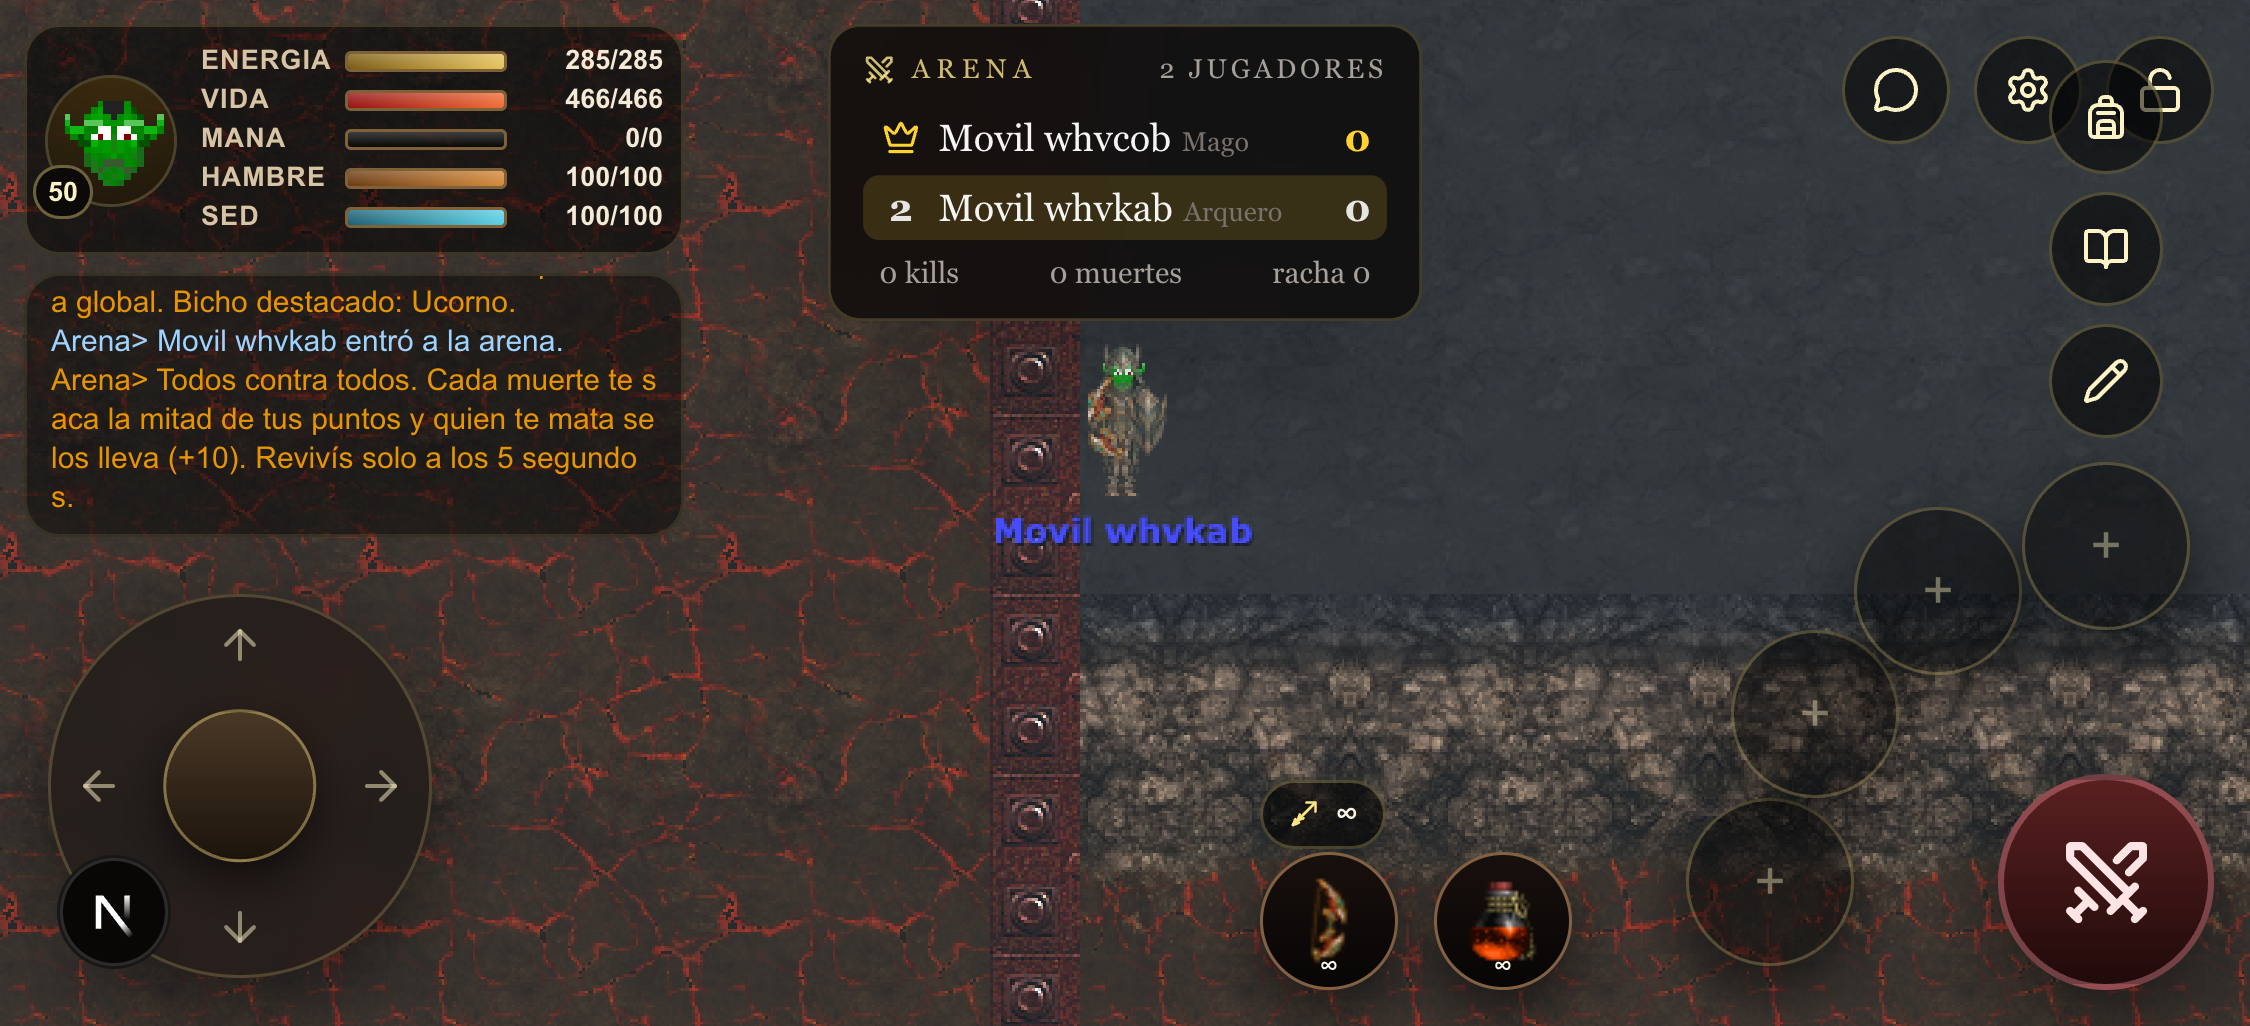
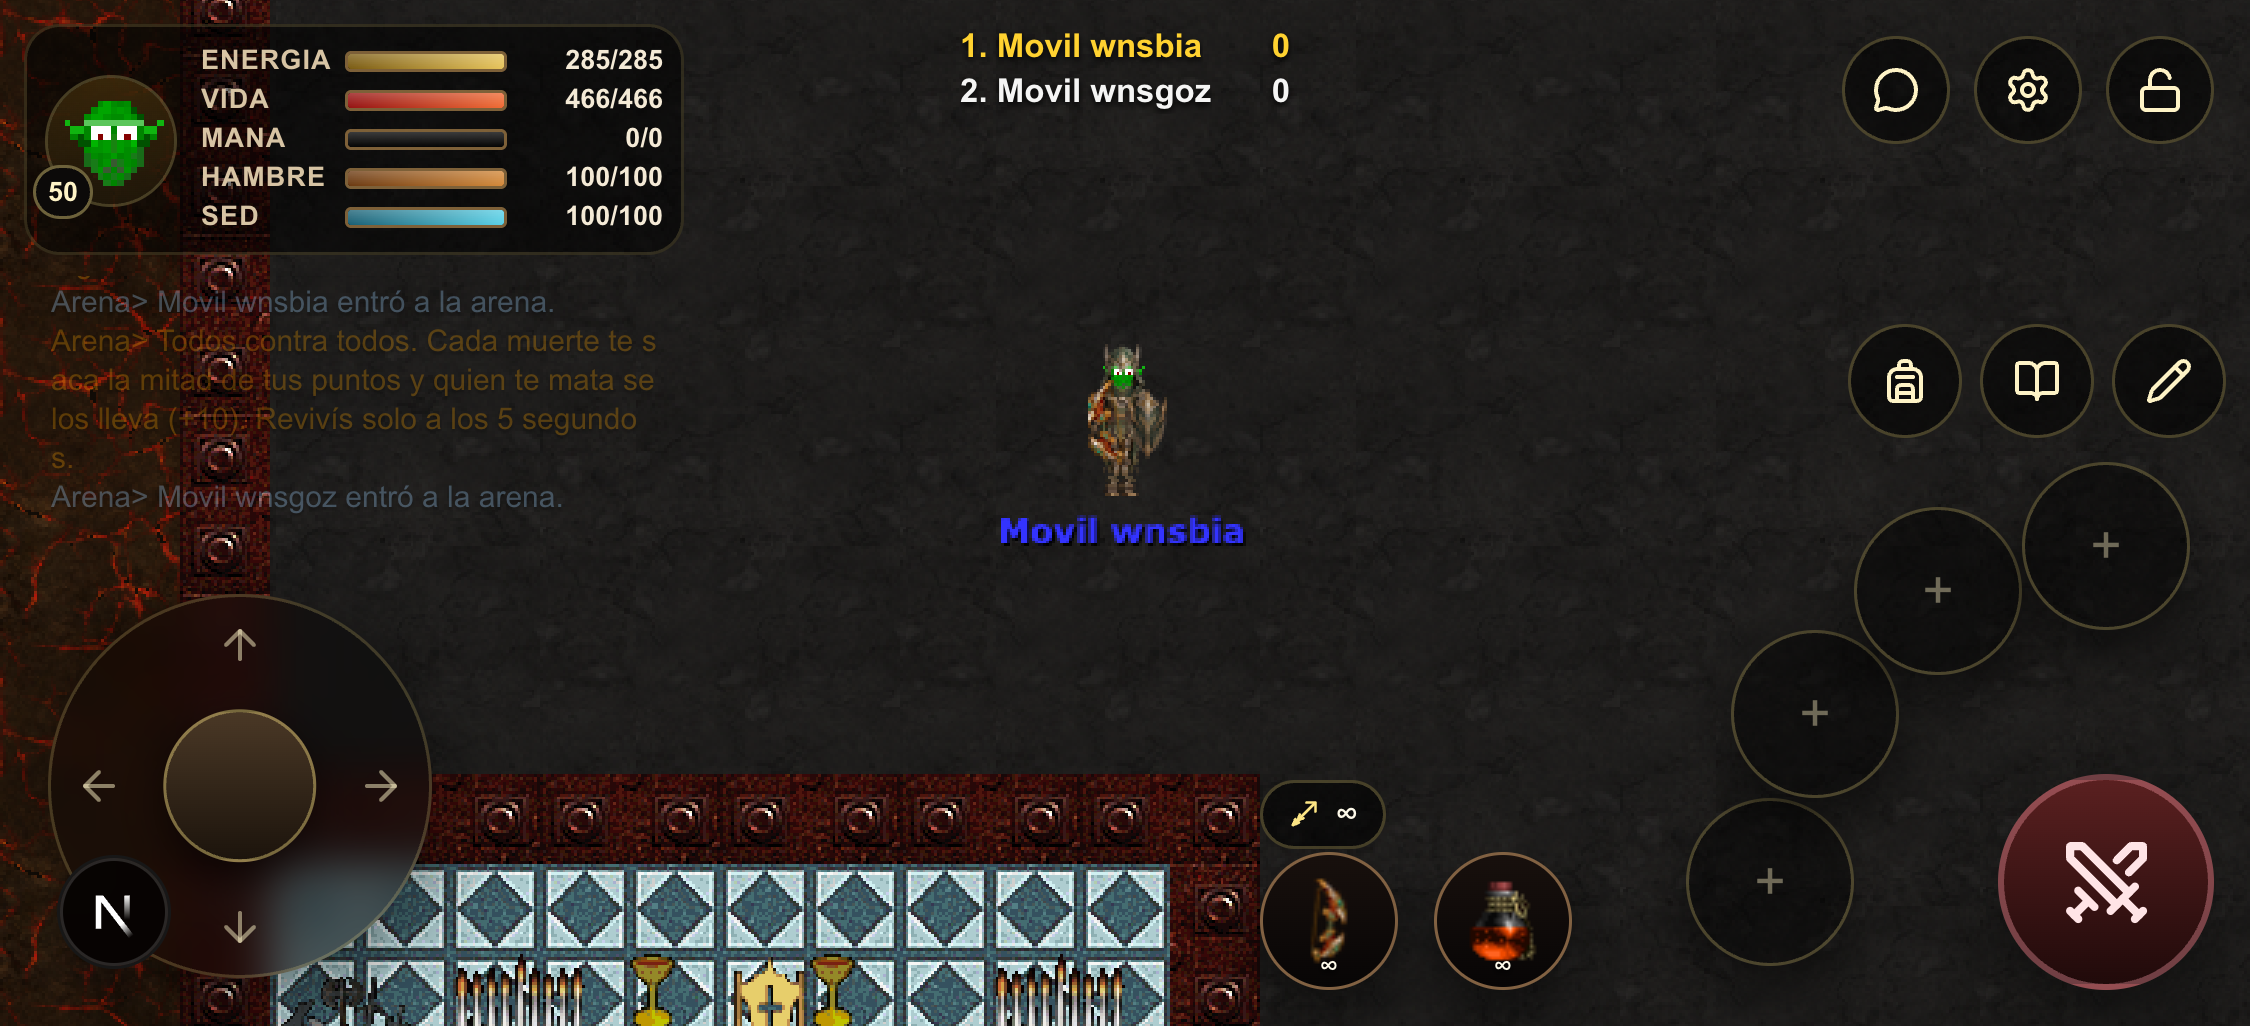
Mobile: botones sin pisarse, chat casi transparente y Top 3 de la Arena en texto chico
- Mochila, lista de hechizos y editar pasan de columna a fila encima del arco: en
  pantallas de unos 340 de alto (Safari con barras) la columna pisaba ajustes y candado.
- El log del chat en mobile queda al 30 % y deja tocar lo de abajo; se ve entero y se
  puede scrollear solo con el chat abierto para escribir.
- El Top 3 de la Arena es una lista de texto chica (puesto, nombre y puntos), sin caja,
  encabezado, corona, clase ni kills; tu puesto abajo si no estás en el Top 3.

diff --git a/frontend/components/game/ArenaScoreboard.tsx b/frontend/components/game/ArenaScoreboard.tsx
@@ -1,9 +1,8 @@
 "use client";
 
 import { useEffect, useState } from "react";
-import { Crown, Skull, Swords } from "lucide-react";
+import { Skull } from "lucide-react";
 import { formatNumber } from "@/lib/number-format";
-import { getArenaClassOption } from "@/lib/arenas";
 import type { ArenaStatePayload } from "@/lib/aowProtocol";
 
 type ArenaScoreboardProps = {
@@ -14,12 +13,10 @@ type ArenaScoreboardProps = {
     isMobile?: boolean;
 };
 
-// Alto del cartel, para correr los avisos de arriba a la derecha.
-export const ARENA_SCOREBOARD_HEIGHT = 176;
+// Alto de la lista (Top 3 y tu puesto), para correr los avisos de arriba a la derecha.
+export const ARENA_SCOREBOARD_HEIGHT = 88;
 
-const PODIUM_COLORS = ["text-amber-300", "text-stone-200", "text-orange-300"];
-
-// Top 3 de la partida, como en los .io: arriba a la derecha y siempre a la vista.
+// Top 3 de la partida, como en los .io: una lista chica de texto, sin caja, para tapar lo menos posible.
 export function ArenaScoreboard({
     state,
     dead,
@@ -30,88 +27,38 @@ export function ArenaScoreboard({
 
     return (
         <>
-            <div
-                className={`pointer-events-none absolute z-30 w-[220px] select-none ${
+            <ol
+                aria-label="Top de la arena"
+                className={`pointer-events-none z-30 min-w-[110px] select-none font-semibold text-stone-100 [text-shadow:0_1px_2px_rgba(0,0,0,0.95)] ${
                     isMobile
-                        ? "fixed left-1/2 top-2 z-40 origin-top -translate-x-1/2 scale-90"
-                        : "right-3 top-3"
+                        ? "fixed left-1/2 top-2 z-40 -translate-x-1/2 text-[11px] leading-[15px]"
+                        : "absolute right-3 top-3 text-xs leading-[18px]"
                 }`}
             >
-                <div className="rounded-xl border border-amber-200/20 bg-stone-950/82 px-3 py-2 font-serif shadow-2xl backdrop-blur-md">
-                    <div className="flex items-center justify-between text-[10px] uppercase tracking-[0.24em] text-amber-200/80">
-                        <span className="flex items-center gap-1.5">
-                            <Swords className="h-3 w-3" />
-                            Arena
+                {state.top.map((entry, index) => (
+                    <li
+                        key={`${entry.nombre}-${index}`}
+                        className={`flex gap-2 ${
+                            mine?.puesto === index + 1 ? "text-amber-300" : ""
+                        }`}
+                    >
+                        <span className="max-w-[140px] truncate">
+                            {index + 1}. {entry.nombre}
                         </span>
-                        <span className="tracking-[0.14em] text-stone-400">
-                            {state.jugadores === 1
-                                ? "1 jugador"
-                                : `${formatNumber(state.jugadores)} jugadores`}
+                        <span className="ml-auto tabular-nums">
+                            {formatNumber(entry.puntos)}
                         </span>
-                    </div>
-
-                    <ol className="mt-1.5 space-y-0.5">
-                        {state.top.map((entry, index) => {
-                            const isMe = mine?.puesto === index + 1;
-                            return (
-                                <li
-                                    key={`${entry.nombre}-${index}`}
-                                    className={`flex items-center gap-1.5 rounded-md px-1.5 py-0.5 text-sm ${
-                                        isMe ? "bg-amber-300/15" : ""
-                                    }`}
-                                >
-                                    <span
-                                        className={`w-4 text-center font-black tabular-nums ${PODIUM_COLORS[index]}`}
-                                    >
-                                        {index === 0 ? (
-                                            <Crown className="mx-auto h-3.5 w-3.5" />
-                                        ) : (
-                                            index + 1
-                                        )}
-                                    </span>
-                                    <span className="min-w-0 flex-1 truncate text-stone-100">
-                                        {entry.nombre}
-                                        <span className="ml-1 text-[10px] text-stone-500">
-                                            {getArenaClassOption(entry.idClase)
-                                                ?.nombre ?? ""}
-                                        </span>
-                                    </span>
-                                    <span
-                                        className={`font-bold tabular-nums ${PODIUM_COLORS[index]}`}
-                                    >
-                                        {formatNumber(entry.puntos)}
-                                    </span>
-                                </li>
-                            );
-                        })}
-                        {state.top.length === 0 ? (
-                            <li className="px-1.5 py-0.5 text-xs text-stone-400">
-                                Todavía nadie sumó puntos.
-                            </li>
-                        ) : null}
-                    </ol>
-
-                    {mine && !mineInTop ? (
-                        <div className="mt-1 flex items-center gap-1.5 border-t border-white/8 px-1.5 pt-1 text-sm">
-                            <span className="w-4 text-center text-xs font-bold tabular-nums text-sky-300">
-                                {mine.puesto}
-                            </span>
-                            <span className="flex-1 text-sky-200">Vos</span>
-                            <span className="font-bold tabular-nums text-sky-200">
-                                {formatNumber(mine.puntos)}
-                            </span>
-                        </div>
-                    ) : null}
-
-                    {mine ? (
-                        <div className="mt-1 flex justify-between px-1.5 text-[11px] text-stone-400">
-                            <span>{formatNumber(mine.kills)} kills</span>
-                            <span>{formatNumber(mine.muertes)} muertes</span>
-                            <span>racha {formatNumber(mine.racha)}</span>
-                        </div>
-                    ) : null}
-                </div>
-            </div>
+                    </li>
+                ))}
+                {mine && !mineInTop ? (
+                    <li className="flex gap-2 text-sky-300">
+                        <span>{mine.puesto}. Vos</span>
+                        <span className="ml-auto tabular-nums">
+                            {formatNumber(mine.puntos)}
+                        </span>
+                    </li>
+                ) : null}
+            </ol>
 
             {dead ? (
                 <ArenaReviveBanner state={state} isMobile={isMobile} />

diff --git a/frontend/components/game/controls/MobileStatusPanel.tsx b/frontend/components/game/controls/MobileStatusPanel.tsx
@@ -21,6 +21,9 @@ type MobileStatusPanelProps = {
     // Mientras se apunta un hechizo: el log se oculta y las barras quedan
     // semitransparentes y sin capturar toques, para poder apuntar debajo.
     isTargeting: boolean;
+    // El log casi no se ve y deja tocar lo que hay debajo; al abrir el chat
+    // para escribir aparece entero y se puede scrollear.
+    chatOpen: boolean;
     onOpenSkills: () => void;
 };
 
@@ -29,6 +32,7 @@ export function MobileStatusPanel({
     consoleLog,
     skillPoints,
     isTargeting,
+    chatOpen,
     onOpenSkills,
 }: MobileStatusPanelProps) {
     const logRef = React.useRef<HTMLDivElement | null>(null);
@@ -122,9 +126,12 @@ export function MobileStatusPanel({
             <div
                 ref={logRef}
                 onScroll={handleLogScroll}
-                className={`pointer-events-auto max-h-[88px] overflow-y-auto overscroll-contain rounded-xl border border-amber-200/10 bg-black/45 px-2 py-1.5 text-[10px] leading-[13px] text-stone-200/90 [scrollbar-width:thin] ${
-                    isTargeting ? "hidden" : ""
-                }`}
+                aria-label="Mensajes"
+                className={`max-h-[88px] overflow-y-auto overscroll-contain rounded-xl border px-2 py-1.5 text-[10px] leading-[13px] text-stone-200/90 transition-opacity [scrollbar-width:thin] ${
+                    chatOpen
+                        ? "pointer-events-auto border-amber-200/20 bg-black/70"
+                        : "pointer-events-none border-transparent opacity-30 [text-shadow:0_1px_1px_rgba(0,0,0,0.9)]"
+                } ${isTargeting ? "hidden" : ""}`}
                 style={{ touchAction: "pan-y" }}
             >
                 {consoleLog}

diff --git a/frontend/components/game/controls/MobileHud.tsx b/frontend/components/game/controls/MobileHud.tsx
@@ -42,12 +42,12 @@ const SPELL_SLOT_POSITIONS = [
     { left: 142, top: 30 },
 ];
 
-// Columna de accesos (inventario, lista de hechizos, editar) encima del
-// último hechizo del arco (el de arriba, centrado en x=170).
+// Fila de accesos (inventario, lista de hechizos, editar) encima del arco,
+// pegada al borde derecho. En columna pisaba los botones de arriba en
+// pantallas de unos 340 de alto (Safari con sus barras).
 const SIDE_BUTTON_SIZE = 38;
 const SIDE_BUTTON_GAP = 6;
-const SIDE_COLUMN_LEFT = 170 - SIDE_BUTTON_SIZE / 2;
-const SIDE_COLUMN_BOTTOM_GAP = 8;
+const SIDE_ROW_BOTTOM_GAP = 8;
 
 const ITEM_SLOT_SIZE = 46;
 const ITEM_SLOT_POSITIONS = [
@@ -259,15 +259,14 @@ export function MobileHud({
                 }}
             >
                 <div
-                    className={`pointer-events-none absolute flex flex-col transition-opacity ${
+                    className={`pointer-events-none absolute right-0 flex transition-opacity ${
                         isTargeting ? "opacity-25" : ""
                     }`}
                     style={{
-                        left: SIDE_COLUMN_LEFT,
                         bottom:
                             ACTION_CLUSTER_SIZE -
                             SPELL_SLOT_POSITIONS[3].top +
-                            SIDE_COLUMN_BOTTOM_GAP,
+                            SIDE_ROW_BOTTOM_GAP,
                         gap: SIDE_BUTTON_GAP,
                     }}
                 >

diff --git a/frontend/app/play/page.tsx b/frontend/app/play/page.tsx
@@ -4277,6 +4277,7 @@ function HomeContent() {
                                         ),
                                     )}
                                     isTargeting={isMobileTargeting}
+                                    chatOpen={isChatOpen}
                                     onOpenSkills={() =>
                                         setIsMobileSkillsOpen(true)
                                     }

diff --git a/docs/ARENA.md b/docs/ARENA.md
@@ -26,6 +26,8 @@ Reemplazó a las salas de arena (con contraseña, link y plantillas viejas), que
   - El arco de hechizos lleva Remover Parálisis, Paralizar, el más poderoso y la mejor curación (o el segundo de daño si la clase no cura).
   - Los dos items llevan Poción Roja y Azul. El arquero y el cazador llevan el arco, que es con lo que disparan; el guerrero, la Poción de Fuerza.
   - Las cantidades de pociones y flechas se muestran como ∞. El Top 3 va arriba al centro, fijo a la pantalla.
+  - Mochila, lista de hechizos y editar van en fila encima del arco: en columna pisaban los botones de arriba en pantallas de unos 340 de alto (Safari con sus barras).
+  - El chat queda casi transparente (30 %) y deja tocar lo que hay debajo; se ve entero solo con el chat abierto para escribir. Es igual en el mundo abierto.
 - **Panel:** Transfigurar, Tienda, Party, Clanes, Misiones, Montura, Premios, Ranked, Viajes, WoAO, los castillos y la montura quedan deshabilitados (`arenaMode` en `InventoryFloatingPanel`).
 - **Salir:** es instantáneo, aunque estés paralizado. En el mundo abierto se sale al instante en zona segura o muerto; en el resto hay que esperar 10 segundos.
 - **Muerte:** no se pasa al mundo de los muertos. A los 5 segundos se revive solo, con vida y maná llenos, en otro lugar del mapa. El cliente muestra quién te mató y la cuenta regresiva.
@@ -34,7 +36,7 @@ Reemplazó a las salas de arena (con contraseña, link y plantillas viejas), que
   - quien te mata se los lleva, más 10 de base;
   - matar dos veces a la misma persona en menos de un minuto no suma ni le saca nada.
   - Desempata quién llegó primero a ese puntaje.
-- **Top 3:** el server manda el paquete `arenaState` (105) a cada jugador de la arena cuando algo cambia. El cliente lo dibuja arriba a la derecha (`components/game/ArenaScoreboard.tsx`).
+- **Top 3:** el server manda el paquete `arenaState` (105) a cada jugador de la arena cuando algo cambia. El cliente lo dibuja arriba a la derecha (`components/game/ArenaScoreboard.tsx`) como una lista chica de texto, sin caja: puesto, nombre y puntos, y tu puesto abajo si no estás en el Top 3.
 - **Ranking por cuenta:** el server manda a la API, cada 5 segundos si hubo cambios:
   - quién está jugando;
   - lo que hizo cada cuenta (`POST /internal/arenas/estado`).
